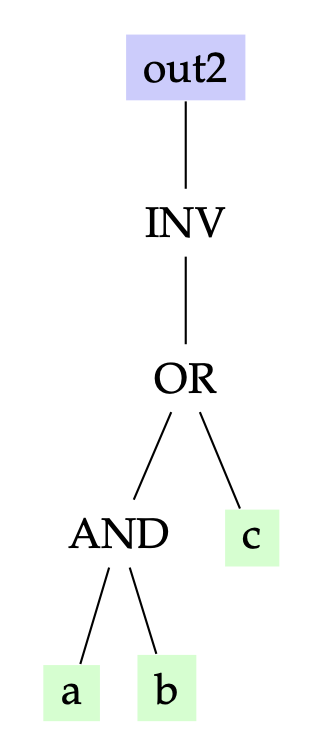
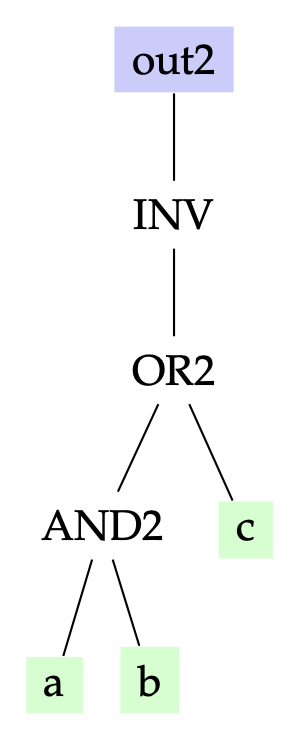
finished through 4.2

diff --git a/docs/ece6745-lab3.md b/docs/ece6745-lab3.md
@@ -318,10 +318,10 @@ Find the `print_tree` and `print_tree_h` functions.
 
 ```python
 def print_tree_h( node, indent ):
-  pass
+  ...
 
 def print_tree( db, name ):
-  pass
+  ...
 ```
 
 The `print_tree` function takes as input the front-end database and the
@@ -363,7 +363,7 @@ Now find the `print_forest` function.
 
 ```python
 def print_forest( db ):
-  pass
+  ...
 ```
 
 This function should iterate across all trees in the forest and print
@@ -495,11 +495,157 @@ tinyflow-synth> db.read_verilog("../../rtl/FullAdder.v")
 4. Algorithm: Unoptimized Technology Mapping
 --------------------------------------------------------------------------
 
+Our unoptimized technology mapping algorithm will be very simple. It will
+replace every generic gate with a logically equivalent subtree of
+standard cells. We will not be trying to optimize area. We are simply
+trying to develop the most basic possible technology mapping algorithm.
+
+We will develop a subtree substitution framework which we can then use to
+implement the unoptimized technology mapping algorithm. You can also use
+this subtree substitution framework to implement canoncalization and
+optimized technology mapping in the project. The subtree substitution
+framework will enable us to create a substitute like this:
+
+```python
+Substitute( find=AND2(_0, _1), replace=INV(NAND2(_0, _1) ))
+```
+
+Once we have created a substitute we can _apply_ to a tree. So applying
+the above subsittute would find every AND2 generig cate and replace it
+with a new INV/NAND2 subtree. Substitutes make use of wildcard nodes
+which are denoted using `_0`, `_1`, `_2`, and `_3`. A wildcard node will
+matches any subtree.
+
+So let's say we start with the tree on the left and we want to apply the
+above substitute to create the tree on the right.
+
+![](img/lab3-tree2.png){ width=60% }
+
+Our goal is to be able to do this as follows.
+
+```python
+tinyflow-synth> a, b, c = Signal("a"), Signal("b"), Signal("c")
+tinyflow-synth> sub = Substitute(find=AND2(_0, _1), replace=INV(NAND2(_0, _1)))
+tinyflow-synth> result = sub.apply(AND2(OR2(a, b), c))
+tinyflow-synth> print(result)
+INV(NAND2(OR2(a, b), c))
+```
+
+This is pretty complicated to implement, so we will take an incremental
+approach. We will start by implementing an exact match algorithm before
+implementing a partial match algorithm. Then we will work on capturing
+the wildcard subtrees from a partial match. We will implement the actual
+replacement before finalyl creating a substitution. Then we can use this
+to implement the unoptimized technology mapping.
+
 ### 4.1. Exactly Matching Trees
+
+Our first step is to implement an exact match algorithm. Our earlier work
+on printing trees only traversed a single tree. Here we will need to
+recurse two trees in parallel to see if they match exactly.
+
+Open the `substitute.py` file in VS Code.
+
+```bash
+% cd ${HOME}/ece6745/lab3/tinyflow/build
+% code ../synth/substitute.py
+```
+
+Find the `match_exact` function in `substitute.py`.
+
+```python
+def match_exact( node, p_node ):
+  ...
+```
+
+This recursive function takes as input two nodes in two trees and
+compares the corresponding subtrees starting from these two nodes using
+the following steps.
+
+ - Base Case: If the nodes are not equal return false
+
+ - Recursive Case: Recursively call function for all children, keep track
+   if any children return false and if so then this function should
+   return false, otherwise return true
+
+You can use the Python `zip` function to easily iterate over the children
+of both nodes together like this:
+
+```
+  for p_child, n_child in zip( p_node.children, node.children ):
+    ... do something with p_child and n_child ...
+```
+
+Once you have implemented your exact match algorithm, try it out using
+the TinyFlow REPL.
+
+```python
+tinyflow-synth> a, b, c = Signal("a"), Signal("b"), Signal("c")
+tinyflow-synth> match_exact( AND2(OR2(a,b), c), AND2(OR2(a,b), c) )
+tinyflow-synth> match_exact( AND2(OR2(a,b), c), OR2(AND2(a,b), c) )
+tinyflow-synth> match_exact( AND2(OR2(a,b), c), AND2(a,b) )
+```
 
 ### 4.2. Partially Matching Trees
 
-### 4.3. Capturing Subtrees
+Now that we know how to recursively traverse two trees in parallel, let's
+implement a partial match algorithm. Here is where will start to take
+advantage of wildcards. A wildcard matches any subtree. For example, the
+pattern `AND2(_0, _1)` matches `AND2(x, y)`, `AND2(OR2(a, b), c)`, or any
+other AND2 tree regardless of its children. The REPL provides predefined
+wildcards `_0`, `_1`, `_2`, `_3` for convenience.
+
+Find the `match` function in `substitute.py`.
+
+```python
+def match( node, p_node ):
+  ...
+```
+
+This recursive function takes as input two nodes in two trees. The
+`p_node` tree is the _pattern_ tree (i.e., the tree with wildcards) while
+the `node` tree is the tree want want to search over. The function
+compares the corresponding subtrees starting from these two nodes using
+the following steps.
+
+ - Base Case 1: If the current `p_node` is a wildcard (i.e.,
+   `is_wildcard()` returns true) then it always matches the corresponding
+   `node` so return true.
+
+ - Base Case 2: If the current `p_node` does not equal the current `node`
+   (i.e., use `!=` which compares the types of the two nodes) then there
+   is no match so return false.
+
+ - Recursive Case: Recursively all function for all children, keep track
+   if any children return false and if so then this function should
+   return false, otherwise return true
+
+Once you have implemented your exact match algorithm, try it out using
+the TinyFlow REPL.
+
+```python
+tinyflow-synth> a, b, c = Signal("a"), Signal("b"), Signal("c")
+tinyflow-synth> tree1 = AND2(OR2(a, b), c)
+tinyflow-synth> tree2 = AND2(OR2(a, b), c)
+tinyflow-synth> tree3 = OR2(AND2(a, b), c)
+
+tinyflow-synth> match_exact( tree1, tree2 )
+tinyflow-synth> match_exact( tree1, tree3 )
+tinyflow-synth> match_exact( tree2, tree3 )
+```
+Test your implementation in the REPL:
+
+```python
+tinyflow-synth> a, b, c = Signal("a"), Signal("b"), Signal("c")
+tinyflow-synth> match( AND2(OR2(a,b), c), AND2(OR2(_0,_1), _2) )
+tinyflow-synth> match( AND2(OR2(a,b), c), OR2(AND2(_0,_1), _2) )
+tinyflow-synth> match( AND2(OR2(a,b), c), AND2(_0,_1) )
+```
+
+Notice how the final match should return true since `AND2(_0,_1)`
+partially matches the `AND2(OR2(a,b), c)` tree.
+
+### 4.3. Capturing Wildcard Subtrees
 
 ### 4.4. Replacing Trees
 
